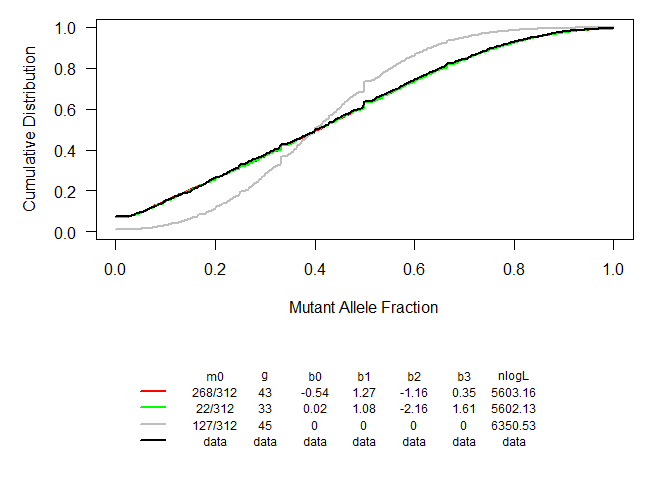
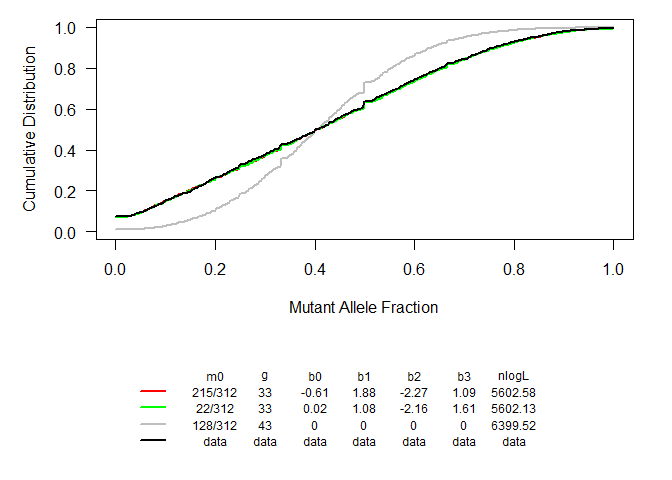
updates

diff --git a/README.md b/README.md
@@ -46,6 +46,21 @@ You can install the *Mitovolve* from github:
 ``` r
 #install.packages("devtools")
 devtools::install_github("yonghui-ni/Mitovolve")
+#> 
+#> ── R CMD build ─────────────────────────────────────────────────────────────────
+#>          checking for file 'C:\Users\yni54\AppData\Local\Temp\RtmpOUQhnF\remotes23ac61a211f5\yonghui-ni-Mitovolve-a0c60f2/DESCRIPTION' ...  ✔  checking for file 'C:\Users\yni54\AppData\Local\Temp\RtmpOUQhnF\remotes23ac61a211f5\yonghui-ni-Mitovolve-a0c60f2/DESCRIPTION'
+#>       ─  preparing 'Mitovolve':
+#>    checking DESCRIPTION meta-information ...  ✔  checking DESCRIPTION meta-information
+#>       ─  checking for LF line-endings in source and make files and shell scripts
+#>   ─  checking for empty or unneeded directories
+#>      NB: this package now depends on R (>=        NB: this package now depends on R (>= 3.5.0)
+#>        WARNING: Added dependency on R >= 3.5.0 because serialized objects in
+#>      serialize/load version 3 cannot be read in older versions of R.
+#>      File(s) containing such objects:
+#>        'Mitovolve/data/reads.RData' 'Mitovolve/data/res.tbl.RData'
+#> ─  building 'Mitovolve_0.1.0.tar.gz'
+#>      
+#> 
 ```
 
 ## Load package
@@ -80,21 +95,21 @@ head(reads)
 #> [4,]       85       5
 #> [5,]        0       9
 #> [6,]        4       2
-head(res.tbl)
+head(res.tbl[which(res.tbl$generation %in% seq(33,43,1)),])
 #>       mutant.start nmito.start generation null.nlogL alt.nlogL     beta3
-#> 14213          127         312         45   6350.531  5602.575 0.8224367
-#> 14214          128         312         45   6350.541  5602.576 0.8203761
-#> 14212          126         312         45   6351.211  5602.573 0.8244970
-#> 14215          129         312         45   6351.238  5602.577 0.8183210
-#> 14211          125         312         45   6352.584  5602.572 0.8265593
-#> 14216          130         312         45   6352.619  5602.578 0.8162666
+#> 13588          128         312         43   6399.520  5602.600 0.8907272
+#> 13587          127         312         43   6399.593        NA        NA
+#> 13589          129         312         43   6400.153        NA        NA
+#> 13586          126         312         43   6400.373        NA        NA
+#> 13590          130         312         43   6401.489        NA        NA
+#> 13585          125         312         43   6401.865  5602.598 0.8976096
 #>           beta2    beta1      beta0
-#> 14213 -1.460279 1.030039 -0.2307204
-#> 14214 -1.459949 1.032182 -0.2326098
-#> 14212 -1.460602 1.027888 -0.2288282
-#> 14215 -1.459618 1.034319 -0.2344967
-#> 14211 -1.460920 1.025730 -0.2269332
-#> 14216 -1.459282 1.036449 -0.2363812
+#> 13588 -1.573979 1.108664 -0.2496349
+#> 13587        NA       NA         NA
+#> 13589        NA       NA         NA
+#> 13586        NA       NA         NA
+#> 13590        NA       NA         NA
+#> 13585 -1.575442 1.102004 -0.2436376
 ```
 
 In the res.tbl, we have negative log-likelihood value of selection-free
@@ -103,10 +118,10 @@ cubic function. We can see the best selection-free model:
 
 ``` r
 res.tbl[which(res.tbl$null.nlogL==min(res.tbl$null.nlogL)),]
-#>       mutant.start nmito.start generation null.nlogL alt.nlogL     beta3
-#> 14213          127         312         45   6350.531  5602.575 0.8224367
-#>           beta2    beta1      beta0
-#> 14213 -1.460279 1.030039 -0.2307204
+#>       mutant.start nmito.start generation null.nlogL alt.nlogL beta3 beta2
+#> 14213          127         312         45   6350.531        NA    NA    NA
+#>       beta1 beta0
+#> 14213    NA    NA
 ```
 
 Then, we use likelihood ratio test to compares the fit of selection and
@@ -119,19 +134,19 @@ res = P_value(res.tbl = res.tbl,
               alt.model = "selection")
 head(res$res.table.pval)
 #>       mutant.start nmito.start generation null.nlogL alt.nlogL     beta3
-#> 14213          127         312         45   6350.531  5602.575 0.8224367
-#> 14214          128         312         45   6350.541  5602.576 0.8203761
-#> 14212          126         312         45   6351.211  5602.573 0.8244970
-#> 14215          129         312         45   6351.238  5602.577 0.8183210
-#> 14211          125         312         45   6352.584  5602.572 0.8265593
-#> 14216          130         312         45   6352.619  5602.578 0.8162666
-#>           beta2    beta1      beta0 df          pval
-#> 14213 -1.460279 1.030039 -0.2307204  4 1.086944e-322
-#> 14214 -1.459949 1.032182 -0.2326098  5 2.262821e-321
-#> 14212 -1.460602 1.027888 -0.2288282  5 2.257880e-321
-#> 14215 -1.459618 1.034319 -0.2344967  5 2.267761e-321
-#> 14211 -1.460920 1.025730 -0.2269332  5 2.257880e-321
-#> 14216 -1.459282 1.036449 -0.2363812  5 2.272702e-321
+#> 13588          128         312         43   6399.520  5602.600 0.8907272
+#> 13585          125         312         43   6401.865  5602.598 0.8976096
+#> 13591          131         312         43   6403.524  5602.602 0.8838910
+#> 13582          122         312         43   6410.637  5602.595 0.9045556
+#> 13594          134         312         43   6413.808  5602.604 0.8771039
+#> 13275          128         312         42   6425.347  5602.612 0.9285524
+#>           beta2    beta1      beta0 df pval
+#> 13588 -1.573979 1.108664 -0.2496349  4    0
+#> 13585 -1.575442 1.102004 -0.2436376  5    0
+#> 13591 -1.572511 1.115270 -0.2556089  5    0
+#> 13582 -1.576915 1.095291 -0.2376145  5    0
+#> 13594 -1.571043 1.121828 -0.2615628  5    0
+#> 13275 -1.635309 1.149901 -0.2588335  5    0
 all(res$res.table.pval$pval<0.05)
 #> [1] TRUE
 ```
@@ -146,14 +161,14 @@ third row of res.tbl.best is the best model without selection.
 res.tbl.best = get.best.model(res.tbl = res$res.table.pval,K = 10,show.best = TRUE)
 #> [1] "The best models are from modeling with low-starting MAF and high-starting MAF"
 res.tbl.best
-#>   nmito.start mutant.start generation       beta0    beta1     beta2     beta3
-#> 1         312          268         43 -0.53852036 1.273206 -1.156520 0.3470694
-#> 2         312           22         33  0.02113842 1.082474 -2.164404 1.6110367
-#> 3         312          127         45  0.00000000 0.000000  0.000000 0.0000000
+#>   nmito.start mutant.start generation       beta0    beta1     beta2    beta3
+#> 1         312          215         33 -0.61287045 1.882499 -2.267717 1.092491
+#> 2         312           22         33  0.02113842 1.082474 -2.164404 1.611037
+#> 3         312          128         43  0.00000000 0.000000  0.000000 0.000000
 #>      nlogL
-#> 1 5603.155
+#> 1 5602.584
 #> 2 5602.132
-#> 3 6350.531
+#> 3 6399.520
 ```
 
 ## Model Visulization
